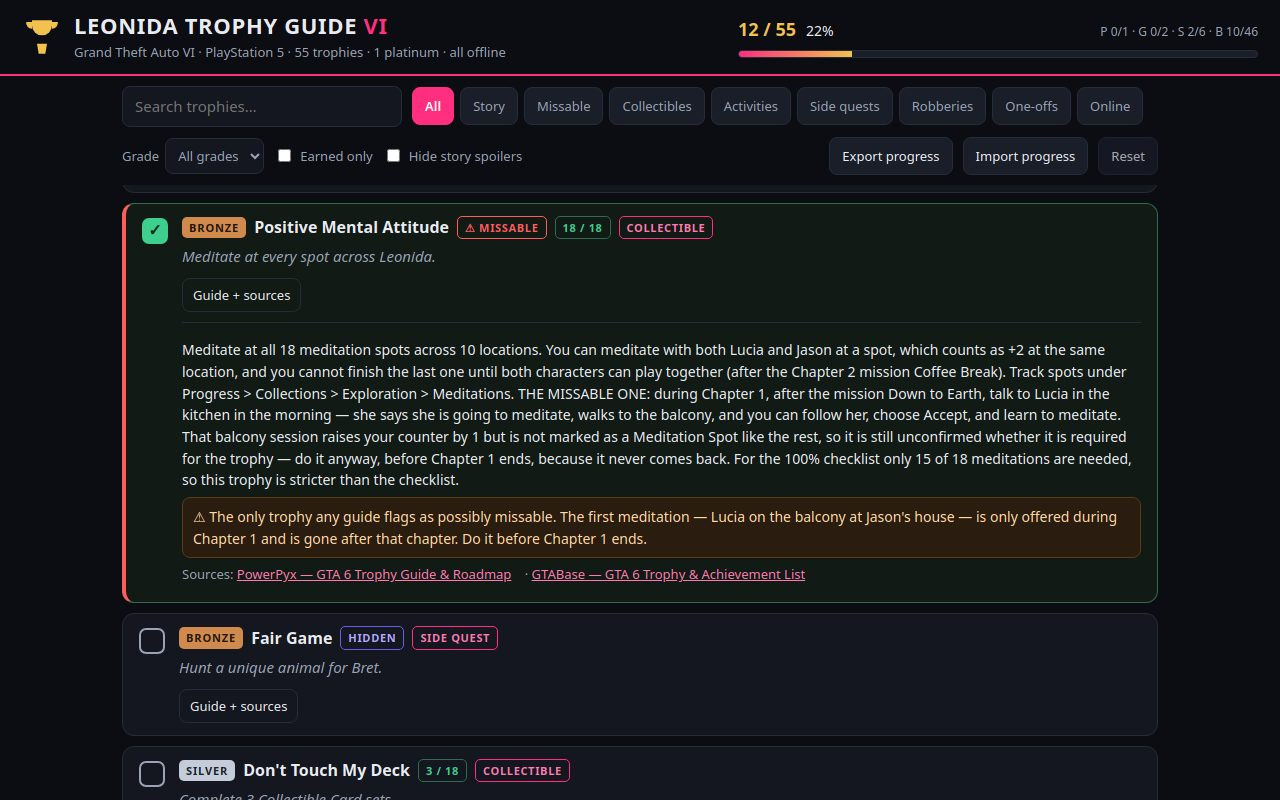
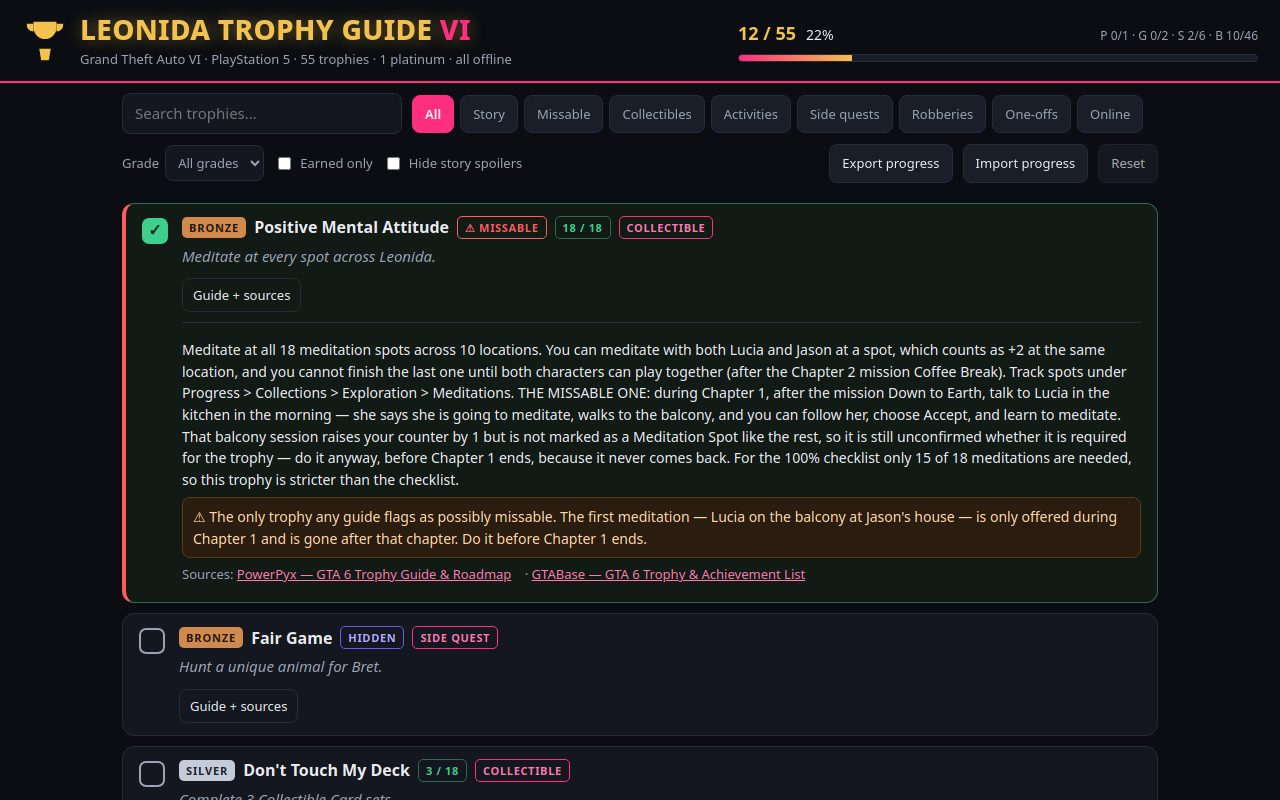
Typography: bigger gold display title + headings (round 2)

diff --git a/app/style.css b/app/style.css
@@ -24,7 +24,7 @@ body {
 }
 a { color: var(--pink-dim); }
 h1, h2, h3 { margin: 0; line-height: 1.25; }
-h2 { font-size: 20px; letter-spacing: .02em; }
+h2 { font-size: 23px; font-weight: 800; letter-spacing: .03em; }
 button, input, select { font: inherit; color: inherit; }
 
 /* Sticky header stack: brand + progress and the tracker controls stay in
@@ -42,8 +42,11 @@ button, input, select { font: inherit; color: inherit; }
   border-bottom: 2px solid var(--pink);
 }
 .brand { display: flex; gap: 12px; align-items: center; }
-.cup { width: 40px; height: 40px; fill: var(--gold); flex: none; }
-.brand h1 { font-size: 22px; letter-spacing: .03em; text-transform: uppercase; }
+.cup { width: 46px; height: 46px; fill: var(--gold); flex: none; }
+/* Display type: the brand title is the guide's signature — bigger, gold with
+   a soft neon glow, tight tracking. Body and card text stay small on purpose:
+   the judge reads screenshots shrunk, and density is what shows the guide. */
+.brand h1 { font-size: 28px; font-weight: 800; letter-spacing: .01em; text-transform: uppercase; color: var(--gold); text-shadow: 0 0 16px rgba(242, 193, 78, .45), 0 2px 0 rgba(0, 0, 0, .35); }
 .brand h1::after { content: " VI"; color: var(--pink); }
 .brand p { margin: 2px 0 0; color: var(--muted); font-size: 13px; }
 .progress { min-width: 280px; flex: 1; max-width: 520px; }
@@ -91,21 +94,21 @@ main { max-width: 1080px; margin: 0 auto; padding: 18px 22px 40px; }
 
 /* Roadmap. */
 .roadmap { margin-bottom: 26px; scroll-margin-top: 196px; }
-.roadmap-intro { color: var(--muted); max-width: 78ch; margin: 8px 0 0; }
+.roadmap-intro { color: var(--muted); max-width: 78ch; margin: 4px 0 0; }
 .stages { display: grid; grid-template-columns: repeat(3, 1fr); gap: 12px; margin-top: 8px; }
 .stage {
   background: var(--panel); border: 1px solid var(--line); border-radius: 12px;
-  padding: 8px 16px;
+  padding: 6px 16px;
 }
 .stage h3 { font-size: 16px; }
 .stage h3 .step { color: var(--pink); margin-right: 6px; }
 .stage .hours { color: var(--gold); font-size: 13px; font-weight: 600; margin: 2px 0 6px; }
 .stage p { margin: 2px 0; color: var(--muted); font-size: 14px; }
 .stage .trophy-note { color: var(--text); font-size: 13px; border-top: 1px solid var(--line); padding-top: 6px; }
-.roadmap-note { color: var(--muted); font-size: 13px; margin-top: 6px; }
+.roadmap-note { color: var(--muted); font-size: 13px; margin-top: 4px; }
 
 /* Trophy list. */
-.list { scroll-margin-top: 196px; }
+.list { scroll-margin-top: 204px; }
 .list-head { display: flex; gap: 12px; align-items: baseline; justify-content: space-between; }
 .list-head p { color: var(--muted); font-size: 13px; margin: 0; }
 #cards { display: grid; gap: 10px; margin-top: 12px; }
@@ -113,11 +116,12 @@ main { max-width: 1080px; margin: 0 auto; padding: 18px 22px 40px; }
   display: flex; gap: 14px; align-items: flex-start;
   background: var(--panel); border: 1px solid var(--line); border-radius: 12px;
   padding: 12px 16px;
-  /* Clears the sticky header stack (76px topbar + ~109px controls) plus the
-     "All trophies" heading above the first card, so a jumped-to card never
-     hides its section heading behind the sticky bar — and the card above
-     it stays fully behind the bar too, instead of peeking its toggle out. */
-  scroll-margin-top: 230px;
+  /* Clears the sticky header stack (83px topbar with the 28px title +
+     ~110px controls) plus the "All trophies" heading above the first card,
+     so a jumped-to card never hides its section heading behind the sticky
+     bar — and the card above it stays fully behind the bar too, instead of
+     peeking its toggle out. */
+  scroll-margin-top: 244px;
 }
 .card.earned { border-color: #2f6b4d; background: #121a16; }
 .card.missable-card { border-left: 4px solid var(--red); }

diff --git a/app/app.js b/app/app.js
@@ -122,7 +122,9 @@ if (params.get('view') === 'roadmap') {
   // little further: otherwise the card above it stays half-visible under
   // the sticky bar, its guide toggle peeking out with no card around it.
   // (When it is the first card, no tuck: its section heading above it
-  // must stay visible below the bar.)
+  // must stay visible below the bar.) The tuck is 42px because the card's
+  // scroll-margin-top is 244px and the sticky bar is ~193px tall: 244 - 42
+  // puts the opened card at ~202px and the card above fully behind the bar.
   const firstVisible = visibleTrophies(trophies, state)[0];
-  if (el && firstVisible && firstVisible.id !== openId) window.scrollBy(0, 28);
+  if (el && firstVisible && firstVisible.id !== openId) window.scrollBy(0, 42);
 }
